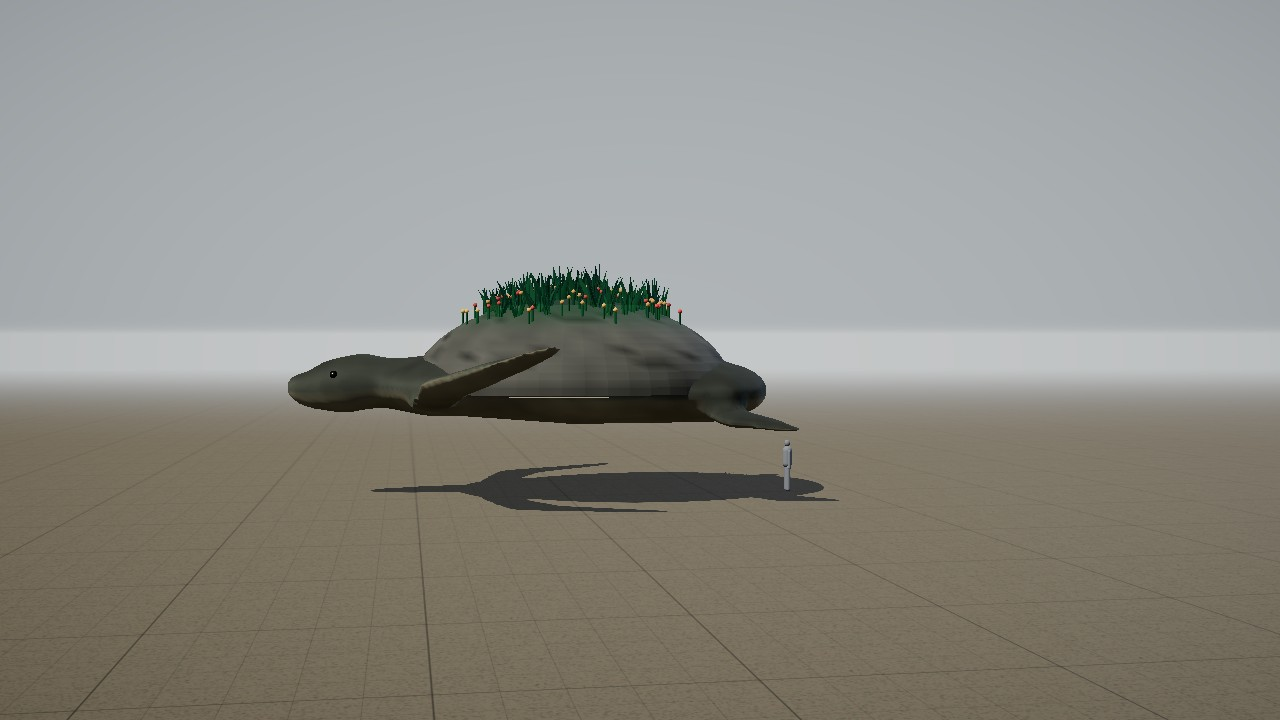
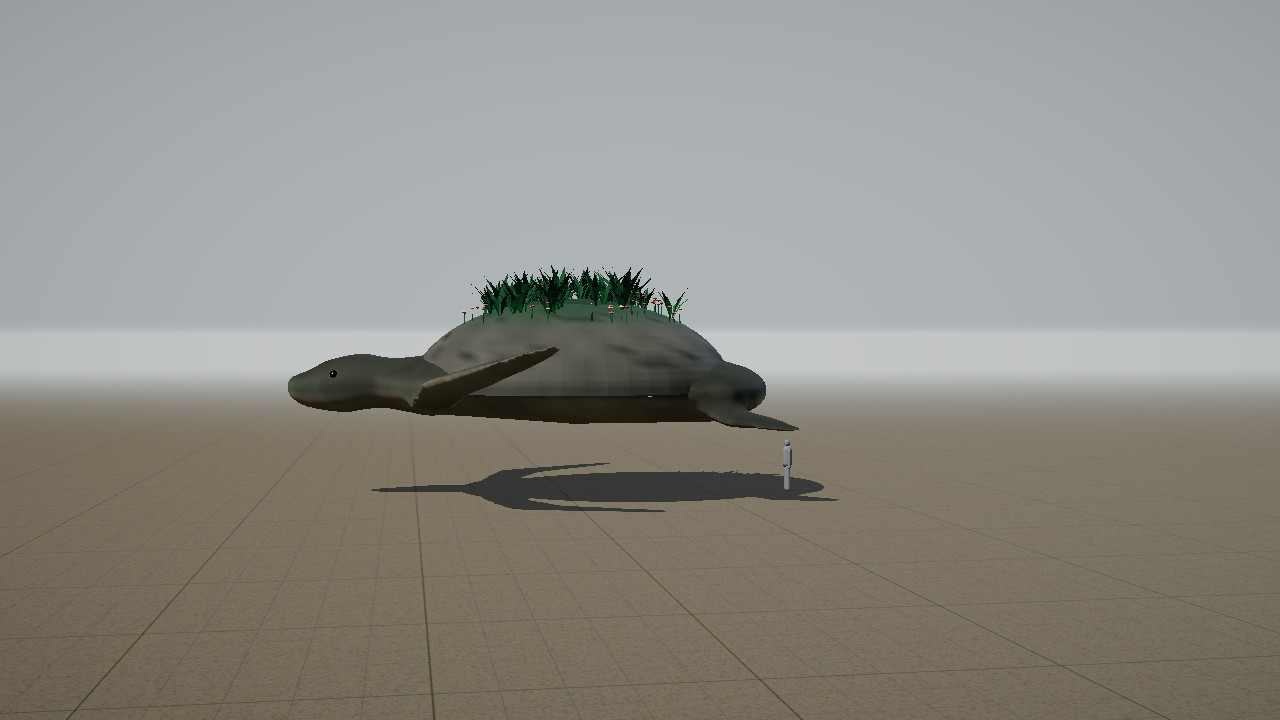
Bodies: Session 1920 — the Mossback's garden thickened in the kit (WIP: f4animals running)
Claude-Session: https://claude.ai/code/session_019eFMMpALmwCJvqVsrYLpAC

Changed region(s): [[0.3438, 0.3667, 0.5312, 0.4583]]

diff --git a/vendor/creatures.builder.js b/vendor/creatures.builder.js
@@ -1775,16 +1775,32 @@ P.shell = (B, o) => { const sp = B.spineAt(o.at), c = sp.p.clone().add(V(0, o.li
   for (let v = 0; v < P0.count; v++) { const x = P0.getX(v), y = P0.getY(v), z = P0.getZ(v); let d1 = 1e9, d2 = 1e9, k1 = 0;
     for (let k = 0; k < lat.length; k++) { const d = Math.hypot(x - lat[k][0], z - lat[k][1]); if (d < d1) { d2 = d1; d1 = d; k1 = k; } else if (d < d2) d2 = d; }
     const edge = sstep(s * .12, 0, d2 - d1), ring = .9 + .1 * Math.cos(d1 / s * 14), C = base.clone().multiplyScalar(ring * (.88 + .24 * ((k1 * 2654435761) % 97) / 97)).lerp(seam, edge * .85);
-    if (o.top) C.lerp(B.tone(o.top), sstep(.55, .95, y / o.h) * .9); if (y < o.h * .12) C.lerp(seam, .35); col.push(C.r, C.g, C.b); }
+    if (o.top) C.lerp(B.tone(o.top), sstep(o.topFrom ?? .55, .95, y / o.h) * .9); if (y < o.h * .12) C.lerp(seam, .35); col.push(C.r, C.g, C.b); }
   g.setAttribute('color', new THREE.Float32BufferAttribute(col, 3));
   const plast = new THREE.CircleGeometry(1, 40); plast.rotateX(Math.PI / 2); plast.scale(rx * .9, 1, rz * .92); plast.translate(0, -o.h * .02, 0); const pc = []; for (let v = 0; v < plast.attributes.position.count; v++) pc.push(...B.tone('belly').toArray()); plast.setAttribute('color', new THREE.Float32BufferAttribute(pc, 3));
   const m = new THREE.Mesh(mergeGeometries([g.toNonIndexed(), plast.toNonIndexed()]), new THREE.MeshStandardMaterial({ vertexColors: true, roughness: o.rough ?? .7, side: THREE.DoubleSide })); m.geometry.computeVertexNormals(); m.position.copy(c); B.bit(sp.bone, m);
-  // a garden: ferns, grass and flowers rooted in the moss on top
-  if (o.garden) { const G = o.garden, geos = [];
-    const add = (geo, color, x, z, rot) => { const y = o.h * Math.sqrt(Math.max(0, 1 - (x / rx) ** 2 - (z / rz) ** 2)); geo.rotateY(rot); geo.translate(x, y - .01, z); const cc = []; for (let v = 0; v < geo.attributes.position.count; v++) cc.push(color.r, color.g, color.b); geo.setAttribute('color', new THREE.Float32BufferAttribute(cc, 3)); geos.push(geo.toNonIndexed()); };
+  // a garden: ferns, grass and flowers rooted in the moss on top. Session 1920 (the critic's note on Session 1906: thin in play): the
+  // fronds and grass are blades of two triangles each, a flower a one-triangle stem and an eight-sided head, cheap enough that a garden
+  // can be thick; `spread` takes the clumps out to the moss's edge, `moss` lays low mounds that break the dome's line, `grass` adds
+  // tufts of blades, `cluster` sets flowers in little groups and `bloom` their heads' size (of `size`); a plan that names none of
+  // these keeps the old spread (.62 and .7), no mounds or grass, one flower to a spot and heads of .07
+  if (o.garden) { const G = o.garden, sz = G.size, geos = [], sp1 = G.spread || .62, sp2 = G.spread || .7, cl = G.cluster || 1, bl = G.bloom || .07;
+    const yAt = (x, z) => o.h * Math.sqrt(Math.max(0, 1 - (x / rx) ** 2 - (z / rz) ** 2));
+    const add = (geo, color, x, z, rot, sink = .01) => { geo.deleteAttribute('uv'); geo.rotateY(rot); geo.translate(x, yAt(x, z) - sink, z); const cc = []; for (let v = 0; v < geo.attributes.position.count; v++) cc.push(color.r, color.g, color.b); geo.setAttribute('color', new THREE.Float32BufferAttribute(cc, 3)); geos.push(geo.index ? geo.toNonIndexed() : geo); };
     const spot = f => { const a = r() * Math.PI * 2, d = Math.sqrt(r()) * f; return [Math.cos(a) * d * rx, Math.sin(a) * d * rz]; };
-    for (let i = 0; i < G.ferns; i++) { const [x, z] = spot(.62), h = G.size * (.6 + .6 * r()); for (let f = 0; f < 5; f++) { const fg = new THREE.ConeGeometry(h * .16, h, 3); fg.scale(1, 1, .25); fg.translate(0, h / 2, 0); fg.rotateZ((r() - .5) * 1.2); add(fg, B.tone('fern').clone().multiplyScalar(.8 + .4 * r()), x, z, f / 5 * Math.PI * 2 + r()); } }
-    for (let i = 0; i < G.flowers; i++) { const [x, z] = spot(.7), st = new THREE.CylinderGeometry(.004, .004, G.size * .45, 4); st.translate(0, G.size * .22, 0); add(st, B.tone('fern'), x, z, 0); const fl = new THREE.SphereGeometry(G.size * .07, 6, 4); fl.translate(0, G.size * .46, 0); add(fl, B.tone(r() < .5 ? 'bloom' : 'bloom2'), x, z, 0); }
+    const tris = pts => { const g = new THREE.BufferGeometry(); g.setAttribute('position', new THREE.Float32BufferAttribute(pts.flat(), 3)); g.computeVertexNormals(); return g; };
+    // a blade leaning out by `lean`, `w` wide at two-thirds of its height: base, the two shoulders, the tip
+    const blade = (h, w, lean) => { const L = [-w, h * .6, h * .3 * lean], R = [w, h * .6, h * .3 * lean], T = [0, h, h * .75 * lean]; return tris([[0, 0, 0], R, L, L, R, T]); };
+    for (let i = 0; i < (G.moss || 0); i++) { const [x, z] = spot(.82), m = sz * (.3 + .3 * r()), mg = new THREE.IcosahedronGeometry(1, 0); mg.scale(m, m * .32, m * (.8 + .4 * r())); add(mg, B.tone('moss').clone().multiplyScalar(.82 + .3 * r()), x, z, r() * 6, m * .2); }
+    for (let i = 0; i < G.ferns; i++) { const [x, z] = spot(sp1), h = sz * (.6 + .6 * r()), n = 5 + (i % 3); for (let f = 0; f < n; f++) add(blade(h * (.75 + .35 * r()), h * .09, .5 + .7 * r()), B.tone('fern').clone().multiplyScalar(.8 + .4 * r()), x, z, f / n * Math.PI * 2 + r()); }
+    for (let i = 0; i < (G.grass || 0); i++) { const [x, z] = spot(.8), h = sz * (.3 + .3 * r()); for (let f = 0; f < 7; f++) add(blade(h * (.7 + .5 * r()), h * .035, .2 + .5 * r()), B.tone('fern').clone().multiplyScalar(1.05 + .35 * r()).lerp(B.tone('moss'), .3), x, z, r() * Math.PI * 2); }
+    // `shrubs` (Session 1920): a low bush of three leafy lumps on a short stem, the garden's tallest things
+    for (let i = 0; i < (G.shrubs || 0); i++) { const [x, z] = spot(.45), h = sz * (.9 + .4 * r()); add(tris([[-.012, 0, 0], [.012, 0, 0], [0, h * .7, 0]]), B.tone('seam'), x, z, r() * 6);
+      for (let k = 0; k < 3; k++) { const b = sz * (.32 + .14 * r()), lg = new THREE.IcosahedronGeometry(b, 0), a = k / 3 * Math.PI * 2 + r(); lg.scale(1, .75, 1); lg.translate(Math.cos(a) * b * .6, h * (.62 + .2 * k), Math.sin(a) * b * .6); add(lg, B.tone('fern').clone().multiplyScalar(.62 + .25 * r()), x, z, 0); } }
+    for (let i = 0; i < G.flowers; i++) { const [x0, z0] = spot(sp2), tone = B.tone(r() < .5 ? 'bloom' : 'bloom2');
+      for (let k = 0; k < cl; k++) { const x = x0 + (k ? (r() - .5) * sz * .3 : 0), z = z0 + (k ? (r() - .5) * sz * .3 : 0), hs = sz * (.36 + .2 * r()), lean = (r() - .5) * sz * .1;
+        add(tris([[-.004, 0, 0], [.004, 0, 0], [lean, hs, 0]]), B.tone('fern'), x, z, r() * 6);
+        const fl = new THREE.OctahedronGeometry(sz * bl * (.8 + .4 * r()), 0); fl.scale(1, .6, 1); fl.translate(lean, hs, 0); add(fl, tone.clone().multiplyScalar(.9 + .2 * r()), x, z, 0); } }
     const gm = new THREE.Mesh(mergeGeometries(geos), new THREE.MeshStandardMaterial({ vertexColors: true, roughness: .85, side: THREE.DoubleSide })); gm.position.copy(c); B.bit(sp.bone, gm); }
   // a sail: a sheet along the crest, striped, stiffened by its spines
   if (o.sail) { const top = c.clone().add(V(0, o.h * .97, 0)), pts = [top.clone()], cols = [B.tone('sail')], N = 9; for (let i = 0; i <= N; i++) { const t = i / N, z = (t - .5) * o.sail.len, h = o.sail.h * Math.sin(Math.PI * Math.pow(t, .8)) * (.85 + .15 * Math.sin(t * 40)); pts.push(top.clone().add(V(0, h - o.h * (1 - Math.sqrt(Math.max(0, 1 - (z / rz) ** 2))) , z))); cols.push(B.tone(i % 2 ? 'sail' : 'sail2')); }
@@ -2855,7 +2871,7 @@ const tortoise = shell => [
   ['legs', { at: .95, kind: 'plantFore', out: .55, drop: .15, r: [.17, .16, .15, .15], claws: { r: .02, len: .05 } }],
   ['legs', { at: .05, kind: 'plantHind', out: .55, drop: .1, r: [.19, .17, .16, .16], claws: { r: .02, len: .05 } }],
   ['shell', shell]];
-PLANS.mossback.parts = tortoise({ at: .5, lift: .02, len: 2.3, w: 1.75, h: 1.0, top: 'moss', garden: { ferns: 14, flowers: 20, size: .35 } });
+PLANS.mossback.parts = tortoise({ at: .5, lift: .02, len: 2.3, w: 1.75, h: 1.0, top: 'moss', topFrom: .3, garden: { ferns: 34, flowers: 22, cluster: 3, bloom: .13, grass: 26, moss: 18, shrubs: 2, spread: .8, size: .5 } });
 PLANS.sailshell.parts = tortoise({ at: .5, lift: .02, len: 2.0, w: 1.5, h: .8, sail: { h: 1.3, len: 1.8 } });
 // a bird of the air: a perching body on bird legs, a fanned tail and feathered wings; a raven and a hawk differ in beak and colour
 const flier = o => [

diff --git a/docs/prototypes/levelup/creatures.js b/docs/prototypes/levelup/creatures.js
@@ -345,16 +345,32 @@ P.shell = (B, o) => { const sp = B.spineAt(o.at), c = sp.p.clone().add(V(0, o.li
   for (let v = 0; v < P0.count; v++) { const x = P0.getX(v), y = P0.getY(v), z = P0.getZ(v); let d1 = 1e9, d2 = 1e9, k1 = 0;
     for (let k = 0; k < lat.length; k++) { const d = Math.hypot(x - lat[k][0], z - lat[k][1]); if (d < d1) { d2 = d1; d1 = d; k1 = k; } else if (d < d2) d2 = d; }
     const edge = sstep(s * .12, 0, d2 - d1), ring = .9 + .1 * Math.cos(d1 / s * 14), C = base.clone().multiplyScalar(ring * (.88 + .24 * ((k1 * 2654435761) % 97) / 97)).lerp(seam, edge * .85);
-    if (o.top) C.lerp(B.tone(o.top), sstep(.55, .95, y / o.h) * .9); if (y < o.h * .12) C.lerp(seam, .35); col.push(C.r, C.g, C.b); }
+    if (o.top) C.lerp(B.tone(o.top), sstep(o.topFrom ?? .55, .95, y / o.h) * .9); if (y < o.h * .12) C.lerp(seam, .35); col.push(C.r, C.g, C.b); }
   g.setAttribute('color', new THREE.Float32BufferAttribute(col, 3));
   const plast = new THREE.CircleGeometry(1, 40); plast.rotateX(Math.PI / 2); plast.scale(rx * .9, 1, rz * .92); plast.translate(0, -o.h * .02, 0); const pc = []; for (let v = 0; v < plast.attributes.position.count; v++) pc.push(...B.tone('belly').toArray()); plast.setAttribute('color', new THREE.Float32BufferAttribute(pc, 3));
   const m = new THREE.Mesh(mergeGeometries([g.toNonIndexed(), plast.toNonIndexed()]), new THREE.MeshStandardMaterial({ vertexColors: true, roughness: o.rough ?? .7, side: THREE.DoubleSide })); m.geometry.computeVertexNormals(); m.position.copy(c); B.bit(sp.bone, m);
-  // a garden: ferns, grass and flowers rooted in the moss on top
-  if (o.garden) { const G = o.garden, geos = [];
-    const add = (geo, color, x, z, rot) => { const y = o.h * Math.sqrt(Math.max(0, 1 - (x / rx) ** 2 - (z / rz) ** 2)); geo.rotateY(rot); geo.translate(x, y - .01, z); const cc = []; for (let v = 0; v < geo.attributes.position.count; v++) cc.push(color.r, color.g, color.b); geo.setAttribute('color', new THREE.Float32BufferAttribute(cc, 3)); geos.push(geo.toNonIndexed()); };
+  // a garden: ferns, grass and flowers rooted in the moss on top. Session 1920 (the critic's note on Session 1906: thin in play): the
+  // fronds and grass are blades of two triangles each, a flower a one-triangle stem and an eight-sided head, cheap enough that a garden
+  // can be thick; `spread` takes the clumps out to the moss's edge, `moss` lays low mounds that break the dome's line, `grass` adds
+  // tufts of blades, `cluster` sets flowers in little groups and `bloom` their heads' size (of `size`); a plan that names none of
+  // these keeps the old spread (.62 and .7), no mounds or grass, one flower to a spot and heads of .07
+  if (o.garden) { const G = o.garden, sz = G.size, geos = [], sp1 = G.spread || .62, sp2 = G.spread || .7, cl = G.cluster || 1, bl = G.bloom || .07;
+    const yAt = (x, z) => o.h * Math.sqrt(Math.max(0, 1 - (x / rx) ** 2 - (z / rz) ** 2));
+    const add = (geo, color, x, z, rot, sink = .01) => { geo.deleteAttribute('uv'); geo.rotateY(rot); geo.translate(x, yAt(x, z) - sink, z); const cc = []; for (let v = 0; v < geo.attributes.position.count; v++) cc.push(color.r, color.g, color.b); geo.setAttribute('color', new THREE.Float32BufferAttribute(cc, 3)); geos.push(geo.index ? geo.toNonIndexed() : geo); };
     const spot = f => { const a = r() * Math.PI * 2, d = Math.sqrt(r()) * f; return [Math.cos(a) * d * rx, Math.sin(a) * d * rz]; };
-    for (let i = 0; i < G.ferns; i++) { const [x, z] = spot(.62), h = G.size * (.6 + .6 * r()); for (let f = 0; f < 5; f++) { const fg = new THREE.ConeGeometry(h * .16, h, 3); fg.scale(1, 1, .25); fg.translate(0, h / 2, 0); fg.rotateZ((r() - .5) * 1.2); add(fg, B.tone('fern').clone().multiplyScalar(.8 + .4 * r()), x, z, f / 5 * Math.PI * 2 + r()); } }
-    for (let i = 0; i < G.flowers; i++) { const [x, z] = spot(.7), st = new THREE.CylinderGeometry(.004, .004, G.size * .45, 4); st.translate(0, G.size * .22, 0); add(st, B.tone('fern'), x, z, 0); const fl = new THREE.SphereGeometry(G.size * .07, 6, 4); fl.translate(0, G.size * .46, 0); add(fl, B.tone(r() < .5 ? 'bloom' : 'bloom2'), x, z, 0); }
+    const tris = pts => { const g = new THREE.BufferGeometry(); g.setAttribute('position', new THREE.Float32BufferAttribute(pts.flat(), 3)); g.computeVertexNormals(); return g; };
+    // a blade leaning out by `lean`, `w` wide at two-thirds of its height: base, the two shoulders, the tip
+    const blade = (h, w, lean) => { const L = [-w, h * .6, h * .3 * lean], R = [w, h * .6, h * .3 * lean], T = [0, h, h * .75 * lean]; return tris([[0, 0, 0], R, L, L, R, T]); };
+    for (let i = 0; i < (G.moss || 0); i++) { const [x, z] = spot(.82), m = sz * (.3 + .3 * r()), mg = new THREE.IcosahedronGeometry(1, 0); mg.scale(m, m * .32, m * (.8 + .4 * r())); add(mg, B.tone('moss').clone().multiplyScalar(.82 + .3 * r()), x, z, r() * 6, m * .2); }
+    for (let i = 0; i < G.ferns; i++) { const [x, z] = spot(sp1), h = sz * (.6 + .6 * r()), n = 5 + (i % 3); for (let f = 0; f < n; f++) add(blade(h * (.75 + .35 * r()), h * .09, .5 + .7 * r()), B.tone('fern').clone().multiplyScalar(.8 + .4 * r()), x, z, f / n * Math.PI * 2 + r()); }
+    for (let i = 0; i < (G.grass || 0); i++) { const [x, z] = spot(.8), h = sz * (.3 + .3 * r()); for (let f = 0; f < 7; f++) add(blade(h * (.7 + .5 * r()), h * .035, .2 + .5 * r()), B.tone('fern').clone().multiplyScalar(1.05 + .35 * r()).lerp(B.tone('moss'), .3), x, z, r() * Math.PI * 2); }
+    // `shrubs` (Session 1920): a low bush of three leafy lumps on a short stem, the garden's tallest things
+    for (let i = 0; i < (G.shrubs || 0); i++) { const [x, z] = spot(.45), h = sz * (.9 + .4 * r()); add(tris([[-.012, 0, 0], [.012, 0, 0], [0, h * .7, 0]]), B.tone('seam'), x, z, r() * 6);
+      for (let k = 0; k < 3; k++) { const b = sz * (.32 + .14 * r()), lg = new THREE.IcosahedronGeometry(b, 0), a = k / 3 * Math.PI * 2 + r(); lg.scale(1, .75, 1); lg.translate(Math.cos(a) * b * .6, h * (.62 + .2 * k), Math.sin(a) * b * .6); add(lg, B.tone('fern').clone().multiplyScalar(.62 + .25 * r()), x, z, 0); } }
+    for (let i = 0; i < G.flowers; i++) { const [x0, z0] = spot(sp2), tone = B.tone(r() < .5 ? 'bloom' : 'bloom2');
+      for (let k = 0; k < cl; k++) { const x = x0 + (k ? (r() - .5) * sz * .3 : 0), z = z0 + (k ? (r() - .5) * sz * .3 : 0), hs = sz * (.36 + .2 * r()), lean = (r() - .5) * sz * .1;
+        add(tris([[-.004, 0, 0], [.004, 0, 0], [lean, hs, 0]]), B.tone('fern'), x, z, r() * 6);
+        const fl = new THREE.OctahedronGeometry(sz * bl * (.8 + .4 * r()), 0); fl.scale(1, .6, 1); fl.translate(lean, hs, 0); add(fl, tone.clone().multiplyScalar(.9 + .2 * r()), x, z, 0); } }
     const gm = new THREE.Mesh(mergeGeometries(geos), new THREE.MeshStandardMaterial({ vertexColors: true, roughness: .85, side: THREE.DoubleSide })); gm.position.copy(c); B.bit(sp.bone, gm); }
   // a sail: a sheet along the crest, striped, stiffened by its spines
   if (o.sail) { const top = c.clone().add(V(0, o.h * .97, 0)), pts = [top.clone()], cols = [B.tone('sail')], N = 9; for (let i = 0; i <= N; i++) { const t = i / N, z = (t - .5) * o.sail.len, h = o.sail.h * Math.sin(Math.PI * Math.pow(t, .8)) * (.85 + .15 * Math.sin(t * 40)); pts.push(top.clone().add(V(0, h - o.h * (1 - Math.sqrt(Math.max(0, 1 - (z / rz) ** 2))) , z))); cols.push(B.tone(i % 2 ? 'sail' : 'sail2')); }
@@ -1425,7 +1441,7 @@ const tortoise = shell => [
   ['legs', { at: .95, kind: 'plantFore', out: .55, drop: .15, r: [.17, .16, .15, .15], claws: { r: .02, len: .05 } }],
   ['legs', { at: .05, kind: 'plantHind', out: .55, drop: .1, r: [.19, .17, .16, .16], claws: { r: .02, len: .05 } }],
   ['shell', shell]];
-PLANS.mossback.parts = tortoise({ at: .5, lift: .02, len: 2.3, w: 1.75, h: 1.0, top: 'moss', garden: { ferns: 14, flowers: 20, size: .35 } });
+PLANS.mossback.parts = tortoise({ at: .5, lift: .02, len: 2.3, w: 1.75, h: 1.0, top: 'moss', topFrom: .3, garden: { ferns: 34, flowers: 22, cluster: 3, bloom: .13, grass: 26, moss: 18, shrubs: 2, spread: .8, size: .5 } });
 PLANS.sailshell.parts = tortoise({ at: .5, lift: .02, len: 2.0, w: 1.5, h: .8, sail: { h: 1.3, len: 1.8 } });
 // a bird of the air: a perching body on bird legs, a fanned tail and feathered wings; a raven and a hawk differ in beak and colour
 const flier = o => [

diff --git a/docs/backlog.md b/docs/backlog.md
@@ -574,7 +574,7 @@ Michael marked all 96 images of the intake on the review page: 63 KEEP and 33 NO
 - **The Gatelands' fifteen** (OG-009): Elderstag, Gatefen Boar (roots up forgotten paths), Redspine Fox, otter, heron, badger, Hollowcat, stoat, Crag Hawk, Marsh Frog, River Pike, Stonecrawler, Mire Snake, Lantern Beetle (glows near ruins; an ingredient); a capercaillie in place of the turkey. **All fifteen are plans in the kit, Session 846** (bodies builder; `creatures.js` `GATELANDS`, `creatures-gatelands.jpg`); owed: the game, after F4: ~~the Elderstag, the Gatefen Boar, the Redspine Fox, the Hollowcat and the Greenward Stoat~~ have bodies in it since Session 1727 (renumbered from 1722; `buildAnimal`, wild, on the wolf's driver; `f4animals`; the spawn is the systems builder's), ~~the heron, the hawk and the capercaillie~~ since Session 1723 (the birds' path, their gaits by their plans'), ~~the pike~~ since Session 1724 (the trout's path), ~~the Stonecrawler and the frog~~ since Session 1731 (the land path, the kit's own trot and hop; so all fifteen have bodies), ~~the beetle~~ since Session 1730 (the snake's path, walking on the kit's six legs, 3,652 tris), ~~the snake~~ since Session 1728 (the trout's path on land, `SWIMMER`'s `land`: lying, slithering by its group, a wave's length a cycle; ~~the kit's own `strideOf` for slither a legged one's~~ — fixed at the kit, Session 1729: a wave's length a cycle); ~~the Hollowcat sitting with its forefeet together and its tail wrapped round~~ — done, Sessions 1126 and 1130 (`sitTuck`, `sitWrap`; the Sunspire Lynx too, the Stormlynx's bobtail not). ~~The heron's straight neck (the critic's question on S1723, an ostrich?)~~ — done, Session 1738: an S at rest, the kit's neck `bends`. **In the open country, Session 1769** (systems builder; `WILD_ISLE_KINDS`, `WILD_ISLE`: each island's own beside the common set by biome, weighted by the catalogue's rarity; the coats by island). Owed: the aggressive ones (the Gatefen Boar, the Icecrab, the Saltspine Monitor, the Sand Wyrm) and the River Pike and the Riverjaw Salmon, asked as DECISION #1050 (Session 1769). **The Gatefen Boar answers back, Session 1796** (#1050 A: it grazes; struck or come within 4 m of, it fights with the hostile Boar's blow and 16 health, and gives up 25 m off; forest, autumn woods and fen). ~~The River Pike~~ — **done, Session 1797** (#1050 A: one fish in two over a bed more than 3 m down, taken as the trout is, 1.2 weight, 18 gold).
 - **The Mark's fifteen** (OG-031): Icehorn (horns that moan in the wind), Ironpine Elk, Stormlynx, Skyraven, Craghorn Ram, Glacial Marmot, Stormshrike, Snowleap Hare (coat by season), Riverjaw Salmon (leaps the falls), Tundra Grouse, Icecrab; Stonefang Wolf and Frostreach Bear as reskins of the Snow Wolf and Cave Bear. **All fifteen are plans in the kit, Session 847** (bodies builder; `creatures.js` `MARK`, `creatures-mark.jpg`); owed: the game, after F4: ~~the Icehorn, the Ironpine Elk, the Craghorn Ram, the Stormlynx, the Glacial Marmot and the Snowleap Hare~~ have bodies in it since Session 1739 (`buildAnimal`, wild, on the wolf's driver; `f4animals`; `docs/prototypes/f4/f4-mark.jpg`; the spawn is the systems builder's); ~~the Skyraven, the Stormshrike and the Tundra Grouse~~ since Session 1740 (the birds' path); ~~the Riverjaw Salmon~~ since Session 1741 (the trout's path); ~~the Frostspine Lizard and the Icecrab~~ since Session 1742 (the land path); so the twelve of the fifteen that are the Mark's own have bodies; the bear and the wolf are the Cave Bear's and the Dire Wolf's (Michael's reskins, owed as coats); the Shatterback is the sea's. **In the open country, Session 1769** (systems builder; `WILD_ISLE_KINDS`, `WILD_ISLE`: each island's own beside the common set by biome, weighted by the catalogue's rarity; the coats by island). Owed: the aggressive ones (the Gatefen Boar, the Icecrab, the Saltspine Monitor, the Sand Wyrm) and the River Pike and the Riverjaw Salmon, asked as DECISION #1050 (Session 1769). **The Icecrab answers back on the Mark's coast, Session 1796** (#1050 A). ~~The Riverjaw Salmon~~ — **done, Session 1797** (#1050 A: one fish in two in the Mark's rivers, not its lakes; 1.2 weight, 18 gold).
 - **Aurenne's fifteen** (OG-030): Duneskimmer, Terrace Ram, Oasis Hare, Scarlet Ibis, Mirage Fox, Cliffswift, Amber Shellcrab (harvestable), Cypress Stalker, Glasswing Moth (an ingredient), Sunbeak Vulture, Spined Gekko; the Saltspine Monitor hostile; the Dunescorpion as the Sand Scorpion's skin; the Sand Wyrm as a set piece known by its funnels. **Fourteen are plans in the kit, Session 848** (bodies builder; `creatures.js` `AURENNE`, `creatures-aurenne.jpg`); owed: the game, after F4: ~~the Duneskimmer, the Terrace Ram, the Sunspire Lynx, the Oasis Hare and the Mirage Fox~~ have bodies in it since Session 1744 (`buildAnimal`, wild, on the wolf's driver; `f4animals`; `docs/prototypes/f4/f4-aurenne.jpg`; the spawn is the systems builder's); ~~the Scarlet Ibis, the Cypress Stalker, the Cliffswift and the Sunbeak Vulture~~ have bodies since Session 1746 (the birds' path; `f4-birds.jpg`); ~~the Saltspine Monitor, the Spined Gekko and the Amber Shellcrab~~ have bodies since Session 1747 (the land path); ~~the Glasswing Moth~~ has a body since Session 1756 (the birds' path: it walks on six legs and soars on its own wingbeat; `f4animals`); ~~the Sand Wyrm~~ has a body since Session 1757 (the snake's path at 14 m, its levels by its size; its rising and funnels are the set piece's), so all fifteen have bodies; the Dune Scorpion is the Sand Scorpion's already; ~~the Glasswing Moth~~ — done, Session 864 (a moth's glass wings in the kit), so all fifteen are plans. **In the open country, Session 1769** (systems builder; `WILD_ISLE_KINDS`, `WILD_ISLE`: each island's own beside the common set by biome, weighted by the catalogue's rarity; the coats by island). Owed: the aggressive ones (the Gatefen Boar, the Icecrab, the Saltspine Monitor, the Sand Wyrm) and the River Pike and the Riverjaw Salmon, asked as DECISION #1050 (Session 1769). **The Saltspine Monitor answers back on Aurenne's coast, Session 1796** (#1050 A); the Sand Wyrm waits for its set piece.
-- **The strange beasts** (OG-040): the Crownstag, the Mossback (a tortoise carrying a garden), the Bellthroat (its call at dusk), the Lanternfox, the Thornrunner; the Shatterhorn, the Frostmane (a pack beast), the Glasswing, the Stonejaw, the Stormplume; the Redcrest, the Sunfan, the Mineprowler, the Sailshell. Wonder without menace, mostly peaceful. A few have six legs, and that is ordinary (Michael's 9 A). **All fourteen are plans in the kit, Session 853** (bodies builder; `creatures.js` `STRANGE`, `creatures-strange.jpg`): six from Sessions 773 to 775 and eight new (the Crownstag, the Lanternfox, the Thornrunner, the Frostmane, the Glasswing, the Stonejaw, the Redcrest, the Sunfan); owed: the game, after F4: ~~the Crownstag, the Lanternfox, the Thornrunner, the Frostmane and the Stonejaw~~ have bodies in it since Session 1852 (`buildAnimal`, wild, on the wolf's driver; `f4animals`; `docs/prototypes/f4/f4-strange.jpg`; ~~the spawn is the systems builder's~~ — done, Session 1870: in their islands' tables by the catalogue's habitat and rarity, the Crownstag and the Frostmane give a deer's meat; ~~the Lanternfox's glow by night only~~ — done, Session 1853, `hcNightK`); ~~the Glasswing, the Stormplume, the Redcrest and the Sunfan (the birds' path)~~ — done, Session 1892 (`BIRD`, `HC_KINDS` in `34-creatures.js`, at the kit's own size, 1.07 to 2.69 m beak to tail; `f4animals`; their spawn is the systems builder's; ~~in the tables~~ — **done, Session 1895**: the Glasswing and the Stormplume on the Mark's tundra and moor, the Redcrest in packs of 2 to 4 in Aurenne's scrub, the Sunfan on its plains and dunes, all rare 0.5; the Stormplume and the Redcrest answer back, #1050 A; `wildlife`); ~~the six-legged Shatterhorn and Mineprowler (need a driver of their own)~~ — done, Session 1907 (on the crawlers' path, the kit posing all six legs: 6.3 m at the walk, 2.4 m at the trot; `f4animals`; ~~in the tables~~ — **done, Session 1911**: the Shatterhorn 0.5 on the Mark's tundra, the Mineprowler 1 in Aurenne's dunes and wastes and answering back, #1050 A; `wildlife`), ~~the Mossback and the Sailshell (the shell's walk)~~ — done, Session 1906 (on the crawlers' path at the kit's own size, 2.2 and 1.9 m, the kit's walk; `f4animals`; ~~in the tables~~ — **done, Session 1911**: the Mossback 1 in the Gatelands' woods, the Sailshell 2 in Aurenne's dunes, wastes and scrub; `wildlife`); ~~the Bellthroat (the frog's path)~~ — done, Session 1893 (`SWIMMER`, 0.37 m at the kit's own size, hopping; `f4animals`); ~~in the tables~~ — **done, Session 1895** (the Gatelands' fen at 2, alone; ~~its call at dusk is still the sound's~~ — **done, Session 1913**: `sndBellthroat`, three booms and an echo at the clock's dusk within 150 m, about every 12 s; `wildlife`; ~~the sac swelling as it calls~~ — **done, Session 1914**: `hcBellSac`, `BELL_SAC`, filled over the three booms to about twice its size, empty 0.3 s after; `f4animals`). ~~The Stormplume and the Redcrest fight posed by their motion alone~~ (the systems builder, Session 1896) — **done, Session 1915**: the kit's kick (`KICK`, `C.kick` in `creatures.js`), chambered by the wind-up and struck through the lunge, feet alternating (`hcBirdKick`, `KICKERS`; `f4animals`).
+- **The strange beasts** (OG-040): the Crownstag, the Mossback (a tortoise carrying a garden), the Bellthroat (its call at dusk), the Lanternfox, the Thornrunner; the Shatterhorn, the Frostmane (a pack beast), the Glasswing, the Stonejaw, the Stormplume; the Redcrest, the Sunfan, the Mineprowler, the Sailshell. Wonder without menace, mostly peaceful. A few have six legs, and that is ordinary (Michael's 9 A). **All fourteen are plans in the kit, Session 853** (bodies builder; `creatures.js` `STRANGE`, `creatures-strange.jpg`): six from Sessions 773 to 775 and eight new (the Crownstag, the Lanternfox, the Thornrunner, the Frostmane, the Glasswing, the Stonejaw, the Redcrest, the Sunfan); owed: the game, after F4: ~~the Crownstag, the Lanternfox, the Thornrunner, the Frostmane and the Stonejaw~~ have bodies in it since Session 1852 (`buildAnimal`, wild, on the wolf's driver; `f4animals`; `docs/prototypes/f4/f4-strange.jpg`; ~~the spawn is the systems builder's~~ — done, Session 1870: in their islands' tables by the catalogue's habitat and rarity, the Crownstag and the Frostmane give a deer's meat; ~~the Lanternfox's glow by night only~~ — done, Session 1853, `hcNightK`); ~~the Glasswing, the Stormplume, the Redcrest and the Sunfan (the birds' path)~~ — done, Session 1892 (`BIRD`, `HC_KINDS` in `34-creatures.js`, at the kit's own size, 1.07 to 2.69 m beak to tail; `f4animals`; their spawn is the systems builder's; ~~in the tables~~ — **done, Session 1895**: the Glasswing and the Stormplume on the Mark's tundra and moor, the Redcrest in packs of 2 to 4 in Aurenne's scrub, the Sunfan on its plains and dunes, all rare 0.5; the Stormplume and the Redcrest answer back, #1050 A; `wildlife`); ~~the six-legged Shatterhorn and Mineprowler (need a driver of their own)~~ — done, Session 1907 (on the crawlers' path, the kit posing all six legs: 6.3 m at the walk, 2.4 m at the trot; `f4animals`; ~~in the tables~~ — **done, Session 1911**: the Shatterhorn 0.5 on the Mark's tundra, the Mineprowler 1 in Aurenne's dunes and wastes and answering back, #1050 A; `wildlife`), ~~the Mossback and the Sailshell (the shell's walk)~~ — done, Session 1906 (on the crawlers' path at the kit's own size, 2.2 and 1.9 m, the kit's walk; `f4animals`; ~~in the tables~~ — **done, Session 1911**: the Mossback 1 in the Gatelands' woods, the Sailshell 2 in Aurenne's dunes, wastes and scrub; `wildlife`); ~~the Bellthroat (the frog's path)~~ — done, Session 1893 (`SWIMMER`, 0.37 m at the kit's own size, hopping; `f4animals`); ~~in the tables~~ — **done, Session 1895** (the Gatelands' fen at 2, alone; ~~its call at dusk is still the sound's~~ — **done, Session 1913**: `sndBellthroat`, three booms and an echo at the clock's dusk within 150 m, about every 12 s; `wildlife`; ~~the sac swelling as it calls~~ — **done, Session 1914**: `hcBellSac`, `BELL_SAC`, filled over the three booms to about twice its size, empty 0.3 s after; `f4animals`). ~~The Stormplume and the Redcrest fight posed by their motion alone~~ (the systems builder, Session 1896) — **done, Session 1915**: the kit's kick (`KICK`, `C.kick` in `creatures.js`), chambered by the wind-up and struck through the lunge, feet alternating (`hcBirdKick`, `KICKERS`; `f4animals`). ~~The Mossback's garden thin in play~~ (Session 1906's note) — **done, Session 1920**: the kit's garden thickened on cheaper plants (two-triangle blades; moss mounds, grass, shrubs and flower clusters, `shell`'s `garden` options), the Mossback's about 1,850 tris; `f4-mossback-garden.jpg`.
 - **The sea** (OG-016, OG-084, OG-031): tidecrab, moray, rays, lantern jelly, flying fish, squid, seals, dolphins, octopus, turtles; the Shatterback and the maw turtle as landmarks mistaken for rock; the gate eel and the Gate Leviathan as a sea gate's antibodies (the Mouth, the Vault of the Tide), seams glowing. **Seventeen are plans in the kit, Session 854** (bodies builder; `creatures.js` `SEA`, `creatures-sea.jpg`): the reef moray, the starweed and sailfin rays, the lantern jelly, the coastal tuna, the skyskimmer, the Stormswift (a dolphin), the drifter squid, the reef shark (~~a shark of its own, not the salmon recoloured~~ — done, Session 1528: the game's shark, Michael's A on S230, as the brief; `creatures-reefshark*.jpg`; ~~the gill bands' chequer~~ — done, Session 1530 (slits as ribbons on the grown skin, `gillSlits`); ~~owed: the game's Shark wearing it~~ — done, Session 1529: on the new look, posed by the kit's swim gait at the old tail's beat, `hcFishRig`; `f4sharks`), the grey seal, the blackcurrent eel, the gate eel and the Gate Leviathan, beside the Tidecrab, the Storm Whale (~~the game's whales wearing it~~ — done, Session 1536: on the new look, `hcWhaleRig`, the fluke's beat at a quarter stroke a second; `f4sharks`; ~~the bow-wave dolphins as the Stormswift~~ — done, Session 1537, `hcDolphinRig`), the octopus and the Shatterback; owed: the game, after F4; ~~the kelpstrider~~ — done, Session 863 (leafy fronds in the kit); ~~the pierwinkle~~ — done, Session 862 (a coiled shell in the kit); ~~the stonefish, the abyssal angler and the crimson leviathan~~ — done, Session 856; ~~turtles (a sea turtle and the maw turtle need flippers)~~ — done, Session 861 (flippers in the kit: flattened arms that stroke). ~~The ports' gulls on the kit~~ — done, Session 1595 (a `gull` plan, the raven's flier in a herring gull's colours, `SHORE`; on the new look `spawnGulls`' four wear it, `hcGullRig`, 4,252 triangles each at the game's cell; `f4sharks`, `docs/prototypes/f4/f4-gull.jpg`, `creatures-gull*.jpg`). ~~The shallows' fish schools on the kit~~ — done, Session 1599 (a `herring` plan in `SHORE`, the salmon's body slimmer and silver under a blue-green back, `saddleUp` in the kit; on the new look every school within 35 m of the eye draws it baked once and instanced, its tail swung in the shader, `hcSchools`; the old cones past it; `f4sharks`, `docs/prototypes/f4/f4-herring.jpg`, `creatures-herring.jpg`).
 - **Livestock** (OG-023, OG-035): chickens, goats, sheep, cows and bees on farms and in fields. **Prototyped as plans in the kit, Session 844** (bodies builder; `creatures.js` `LIVESTOCK`, `creatures-livestock.jpg`): the cow, the sheep, the goat and the hen build and walk; owed: the bees (not skeletal), and the game (after F4): ~~the cow, the sheep and the goat~~ in it since Session 1719 (`buildAnimal`, keyed `farm:<key>`, on the deer's legs; `f4animals`), ~~the hen~~ since Session 1720 (the birds' path, no driver; she runs at a trot and never soars), and their place on the farms (a spawn: the systems builder's, or the look builder's farm dressing); ~~breeds by island~~ — done, Session 866 (`COATS`); in the game since Session 1721 (`buildAnimal(name, key, island)`, for the common set too); ~~a cow's patches~~ — done, Session 845 (a patches pattern in the kit).
 - **Beasts of burden and wagons** (OG-046, OG-077): horse, mule, donkey, ox, camel, reindeer, yak; covered and merchant wagons, the stagecoach, supply carts on the roads. OG-077's post-rider on a horse-sized hare is the brief's licence made ordinary: one on the Gatelands' roads. **The animals are plans in the kit, Session 855** (bodies builder; `creatures.js` `BURDEN`, `creatures-burden.jpg`): the horse, the mule, the donkey, the ox, the camel, the reindeer, the highland yak and a saddled giant goat, beside the post hare (Session 773); OG-046's llama is the Frostmane and its cow the livestock's. Owed: the wagons and carts (props: the look builder's), and the game, after F4; ~~harness and packs~~ — done, Session 867 (`packs` and `harness` in the kit: the pack mule, the draught horse, the yoked ox). **The horse heavier, Session 1261** (bodies builder; S1251 found the kit's horse a thin-legged foal at the coach's size): a deeper barrel, a deep flat neck with a mane (the kit's new `mane`, a crest in its own tone), a broader head, legs a third thicker, a full tail; the draught horse's collar fitted to the grown skin. ~~the coach's team on it (a key per horse from `buildCoachLine`)~~ — done, Session 1273 (the bay and the grey on the kit's horse behind the new look, keyed `coach:<road>:<i>`, each leg bent onto the driver's hoof height, `hcLegIK`; `f4beasts`). **The wagons and carts prototyped by the concept artist, 2 Nov** (`docs/prototypes/levelup/wagons.js`, `wagons.html`; docs/concepts.md): three an island on one running gear (spoked and disc wheels, shafts, a pole, a yoke, runners), each with its team from the kit, with how far the islands differ asked as a DECISION. Michael's B on #1046 (3 Nov): each island its own three, with its own animals. ~~the coach's team by island~~ — done, Session 1825 (bodies builder: the Mark's fjord dun on the kit's horse, `COATS.mark.horse`, taken by every plan with `coatAs: 'horse'`; in the game `buildCoachBeast` gives the Mark's coach two dun horses and Aurenne's two mules, the Gatelands' the bay and the grey as before). Owed: the vehicles themselves in the game (the Mark's carved wagon and Aurenne's carpentum in place of the one coach), and oxen on a driver of their own for the ox cart.

diff --git a/docs/devlog/1920.md b/docs/devlog/1920.md
@@ -1,0 +1,41 @@
+## v80 — Session 1920 — the Mossback's garden, thick enough to read (L3; OG-040)
+The run's first item. Section I holds nothing new for the bodies builder (Pádraig's cloak is still watched). Session 1906's own note:
+the Mossback in the game wore "a few tufts of fern on the moss, and the flowers hard to see", which it guessed was the coarse cell
+the shell is grown at. It was not. The garden is a bit on the shell's bone, not grown flesh, so the cell never touched it. The game drew
+the kit's garden faithfully, and the kit's garden was thin. It had 14 fern clumps of three-sided cones 0.2–0.4 m tall, all within 0.62 of
+the shell's radius. Its 20 flowers were spheres 2.5 cm across. From eye height at 4 m that is one tuft on a brown dome. OG-040's
+row is *an ancient tortoise carrying a living garden*.
+
+**What changed** (`docs/prototypes/levelup/creatures.js`, `shell`'s garden; `vendor/creatures.builder.js` rebuilt).
+- The garden is cheaper per plant, so it can be thicker. A frond or a grass blade is two triangles, a kite leaning out from its root.
+  A flower is a one-triangle stem and an eight-sided head. The old cones, cylinders and spheres were about 9, 16 and 40.
+- New options, all off unless a plan names them:
+  - `spread` carries the clumps out to the moss's edge.
+  - `moss` lays low mounds (twenty-sided, a third as tall as wide, sunk a fifth into the shell) that break the dome's smooth line.
+  - `grass` adds tufts of seven fine blades.
+  - `shrubs` adds a low bush, three leafy lumps on a stem, the garden's tallest thing.
+  - `cluster` sets flowers in groups, and `bloom` sizes their heads.
+  - The shell's own `topFrom` starts the moss lower on the dome.
+- The Mossback is now 34 fern clumps of 5–7 fronds (0.3–0.6 m) and 26 grass tufts. It has 18 moss mounds and 2 shrubs (to about
+  0.65 m), and 22 clusters of three flowers with heads about 6.5 cm across. Its moss runs from 0.3 of the dome's height, was 0.55.
+- A plan that names none of the new options keeps the old spread and flower size. The Maw Turtle (70 ferns, 90 flowers) builds as
+  before in shape and spread, with the cheaper blades.
+
+### Verified (headless Chromium)
+- The game's Mossback (a throwaway script, `buildAnimal('Mossback')` built through `hcTick` as `f4animals` does):
+  - Its hide is unchanged at 8,648 tris (the suite's cap of 9,000 reads the hide).
+  - Its bits went from 4,244 to 4,630 tris. The garden is about 1,850, against about 1,460.
+  - The whole near body is 13,278 against 12,892, +386.
+  - The Sailshell is unchanged at 10,665.
+- `f4animals` RESULT_PLACEHOLDER
+- The kit's `creatures.check.mjs` for the Mossback and the Maw Turtle had no failures. `creatures_bundle.py --check` matches, and
+  `parsecheck` is clean.
+- Pictures:
+  - `docs/prototypes/f4/f4-mossback-garden.jpg`, the two tortoises at noon in the village from 4 m, as Session 1906's
+    `f4-tortoises.jpg` was taken.
+  - `creatures-mossback.jpg` and `creatures-mawturtle.jpg` in the kit, retaken.
+
+### Needs eyes
+- Whether the garden now reads as a garden in play, and not as a hedge. If it is too much, turn down `ferns` and `grass` in the plan.
+- The fronds are flat kites, double-sided. From straight above, at a ship's or a cliff's height, they may read as paper.
+- The Sailshell's pillar legs still render pale at noon (Session 1906's other note), untouched here.
